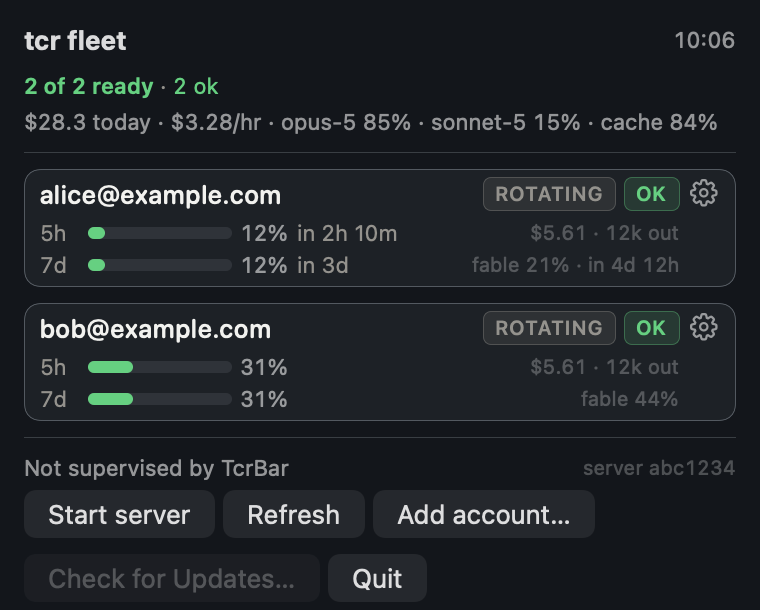
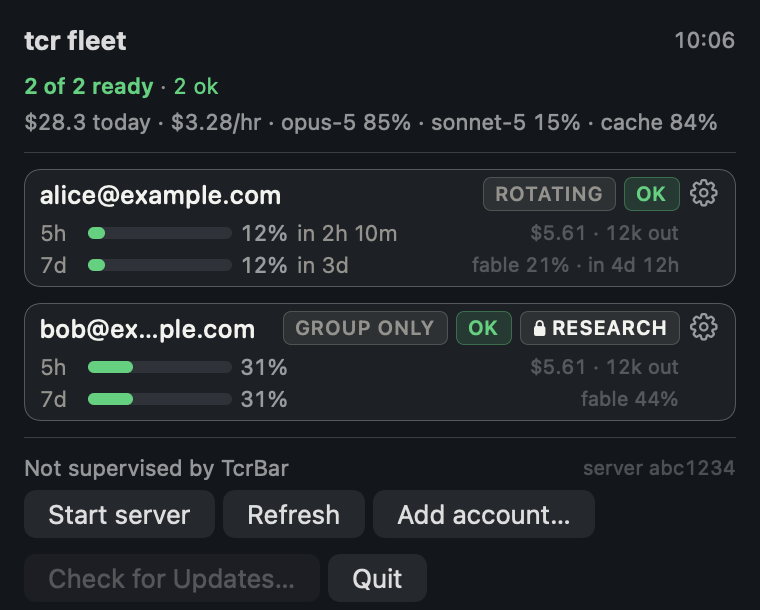
docs: download buttons and a current README panel shot (#180)
* docs: add download buttons and say what the installer installs

Add a Download TcrBar / Install the CLI badge row under the badges,
linking to the release page and #install respectively (the dmg name
is versioned, so there is no stable direct-file URL). Note under the
curl block that the installer places only the `tcr` CLI — TcrBar is
the `.dmg` on the release page — since the platform table already
said "yes" for TcrBar there without linking anywhere.

Claude-Session: https://claude.ai/code/session_01Egpy1WcHQSmAyAaFQcrww6

* feat: show a reserved account in the README panel shot

The README's healthy-fleet screenshot predates the model-mix header, the
build tag in the footer and the "group only" pill a reserved account
carries (#168, #173). Re-render it from the render-states fixtures, with
bob reserved to a group so the pill has something to show.

Cargo.toml moves to 0.2.33 because RenderStates.swift compiles into the
TcrBar bundle and 0.2.32 is already tagged; the release-version gate is
right to refuse shippable code under a shipped number.

Claude-Session: https://claude.ai/code/session_01Egpy1WcHQSmAyAaFQcrww6

---------

Changed region(s): [[0.1816, 0.4984, 0.8776, 0.5607]]

diff --git a/apps/macos/Sources/TcrBar/RenderStates.swift b/apps/macos/Sources/TcrBar/RenderStates.swift
@@ -292,13 +292,27 @@ enum RenderStates {
         // `"null"` is the not-measured row — an older proxy, or an offline
         // read — and it must render as an EMPTY slot, never as `$0.00`; see
         // `unmeasuredUsage` and scene `14-usage-stats`.
-        usage: String = measuredUsage
+        usage: String = measuredUsage,
+        // Group labels, wire fields `"groups"`/`"reservedGroups"`
+        // (`FleetStatus.swift:933-953`). `nil` omits both keys entirely, the
+        // shape every existing call site keeps decoding — see
+        // `Account.groups`'s own doc-comment on why a missing key and an
+        // empty array are kept distinct rather than collapsed.
+        groups: [String]? = nil,
+        reservedGroups: [String]? = nil
     ) -> String {
         func resetAtMs(_ minutes: Int?) -> String {
             guard let minutes else { return "null" }
             let at = Date().addingTimeInterval(Double(minutes) * 60)
             return "\(Int64(at.timeIntervalSince1970 * 1000))"
         }
+        func jsonArray(_ values: [String]) -> String {
+            "[" + values.map { "\"\($0)\"" }.joined(separator: ",") + "]"
+        }
+        let groupsFragment =
+            groups.map { g in
+                "\"groups\":\(jsonArray(g)),\"reservedGroups\":\(jsonArray(reservedGroups ?? [])),"
+            } ?? ""
         let fh = fiveHour ?? quota
         let fhState = fiveHourState ?? state
         let sd = sevenDay ?? quota
@@ -319,7 +333,7 @@ enum RenderStates {
              "quota":\(quota),"quotaState":"\(state)","fiveHour":\(fh),
              "fiveHourState":\(quote(fhState)),"sevenDay":\(sd),"sevenDayState":\(quote(sdState)),
              "sevenDayOi":\(sevenDayOi),"sevenDayOiState":\(quote(sevenDayOiState)),
-             "held":\(held),
+             \(groupsFragment)"held":\(held),
              "fiveHourResetAtMs":\(resetAtMs(fiveHourResetInMinutes)),
              "sevenDayResetAtMs":\(resetAtMs(sevenDayResetInMinutes)),
              "sevenDayOiResetAtMs":\(resetAtMs(sevenDayOiResetInMinutes)),
@@ -486,7 +500,7 @@ enum RenderStates {
     /// are scene 14's job.
     private static var healthyJSON: String {
         "[\(account("alice@example.com", quota: "0.12", state: "ok", fiveHourResetInMinutes: 130, sevenDayResetInMinutes: 4_320, sevenDayOi: "0.21", sevenDayOiState: "ok", sevenDayOiResetInMinutes: 6_498)),"
-            + "\(account("bob@example.com", quota: "0.31", state: "ok", sevenDayOi: "0.44", sevenDayOiState: "ok"))]"
+            + "\(account("bob@example.com", quota: "0.31", state: "ok", sevenDayOi: "0.44", sevenDayOiState: "ok", groups: ["research"], reservedGroups: ["research"]))]"
     }
 
     /// The bug this scene exists to catch: a 7d-red account must not paint

diff --git a/README.md b/README.md
@@ -16,6 +16,11 @@ account whose prompt cache is already warm, and shows you what the traffic would
 
 [Install](#install) · [Usage](#usage) · [Configuration](docs/configuration.md) · [CLI](docs/cli.md) · [Security](#security)
 
+[![Download TcrBar for macOS](https://img.shields.io/badge/Download-TcrBar%20for%20macOS-blue?style=for-the-badge)](https://github.com/dhkts1/teamclaude-rs/releases/latest)
+[![Install the CLI](https://img.shields.io/badge/Install-the%20CLI-lightgrey?style=for-the-badge)](#install)
+
+<sub>TcrBar is a `.dmg` on the release page</sub>
+
 <img src="assets/tcrbar-panel-healthy.png" alt="TcrBar menu-bar panel showing a healthy fleet" width="400">
 
 </div>
@@ -74,6 +79,9 @@ and a terminal dashboard, and `tcr` is a drop-in for the Node
 ```sh
 curl --proto '=https' --tlsv1.2 -LsSf https://github.com/dhkts1/teamclaude-rs/releases/latest/download/teamclaude-rs-installer.sh | sh
 ```
+
+This installs the `tcr` CLI only; TcrBar is the `.dmg` on the
+[release page](https://github.com/dhkts1/teamclaude-rs/releases/latest).
 
 Or from source, with a Rust toolchain. Use the script rather than `cp`, because [`cp` onto a
 running binary rewrites the same inode and macOS then kills it](CONTRIBUTING.md#installing-it-onto-your-path):
